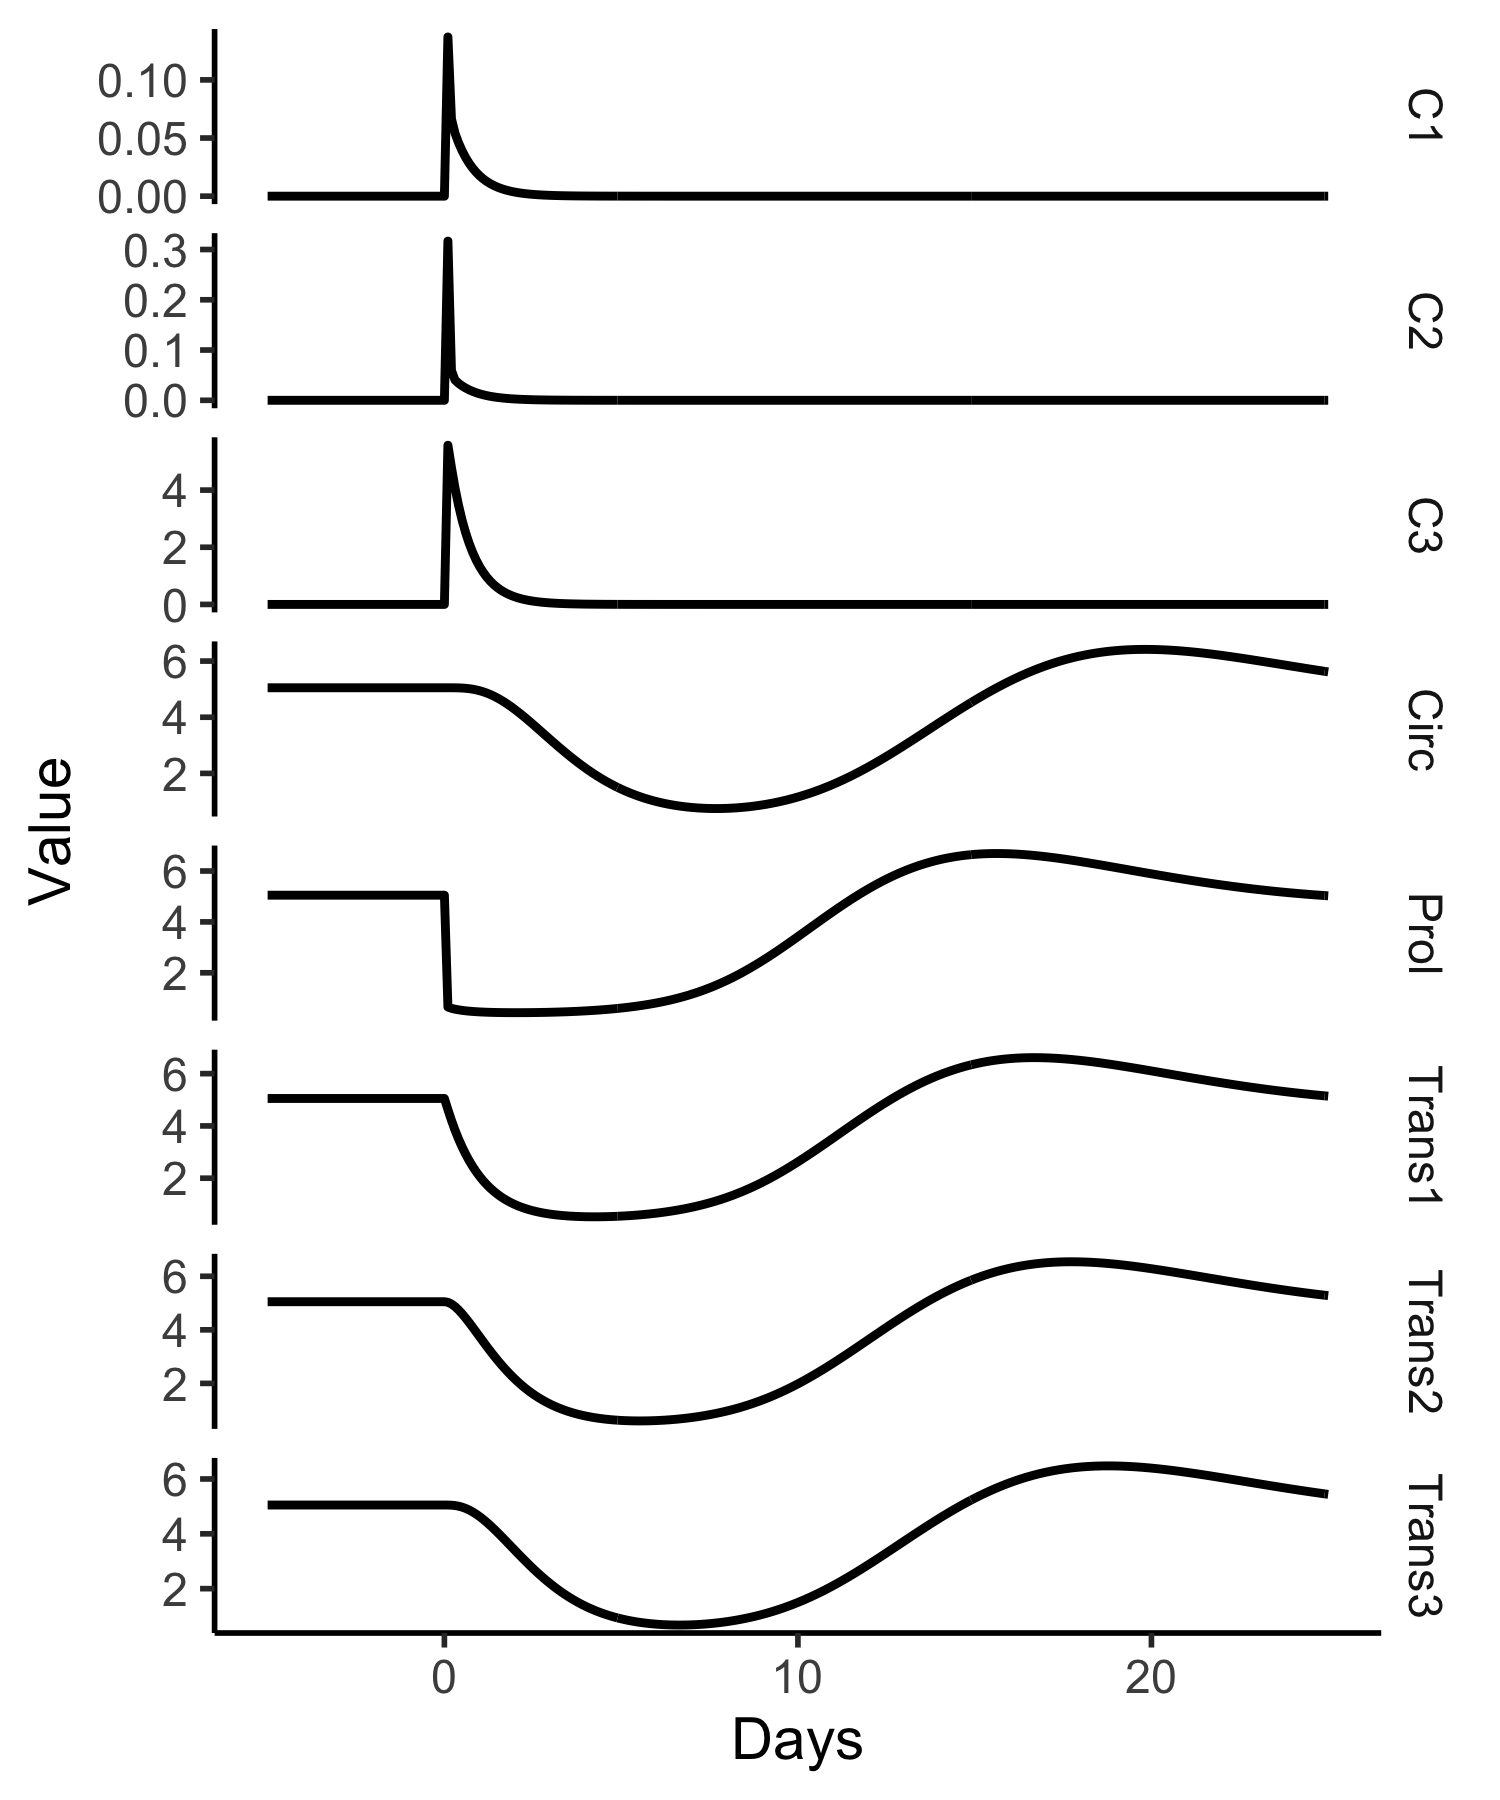
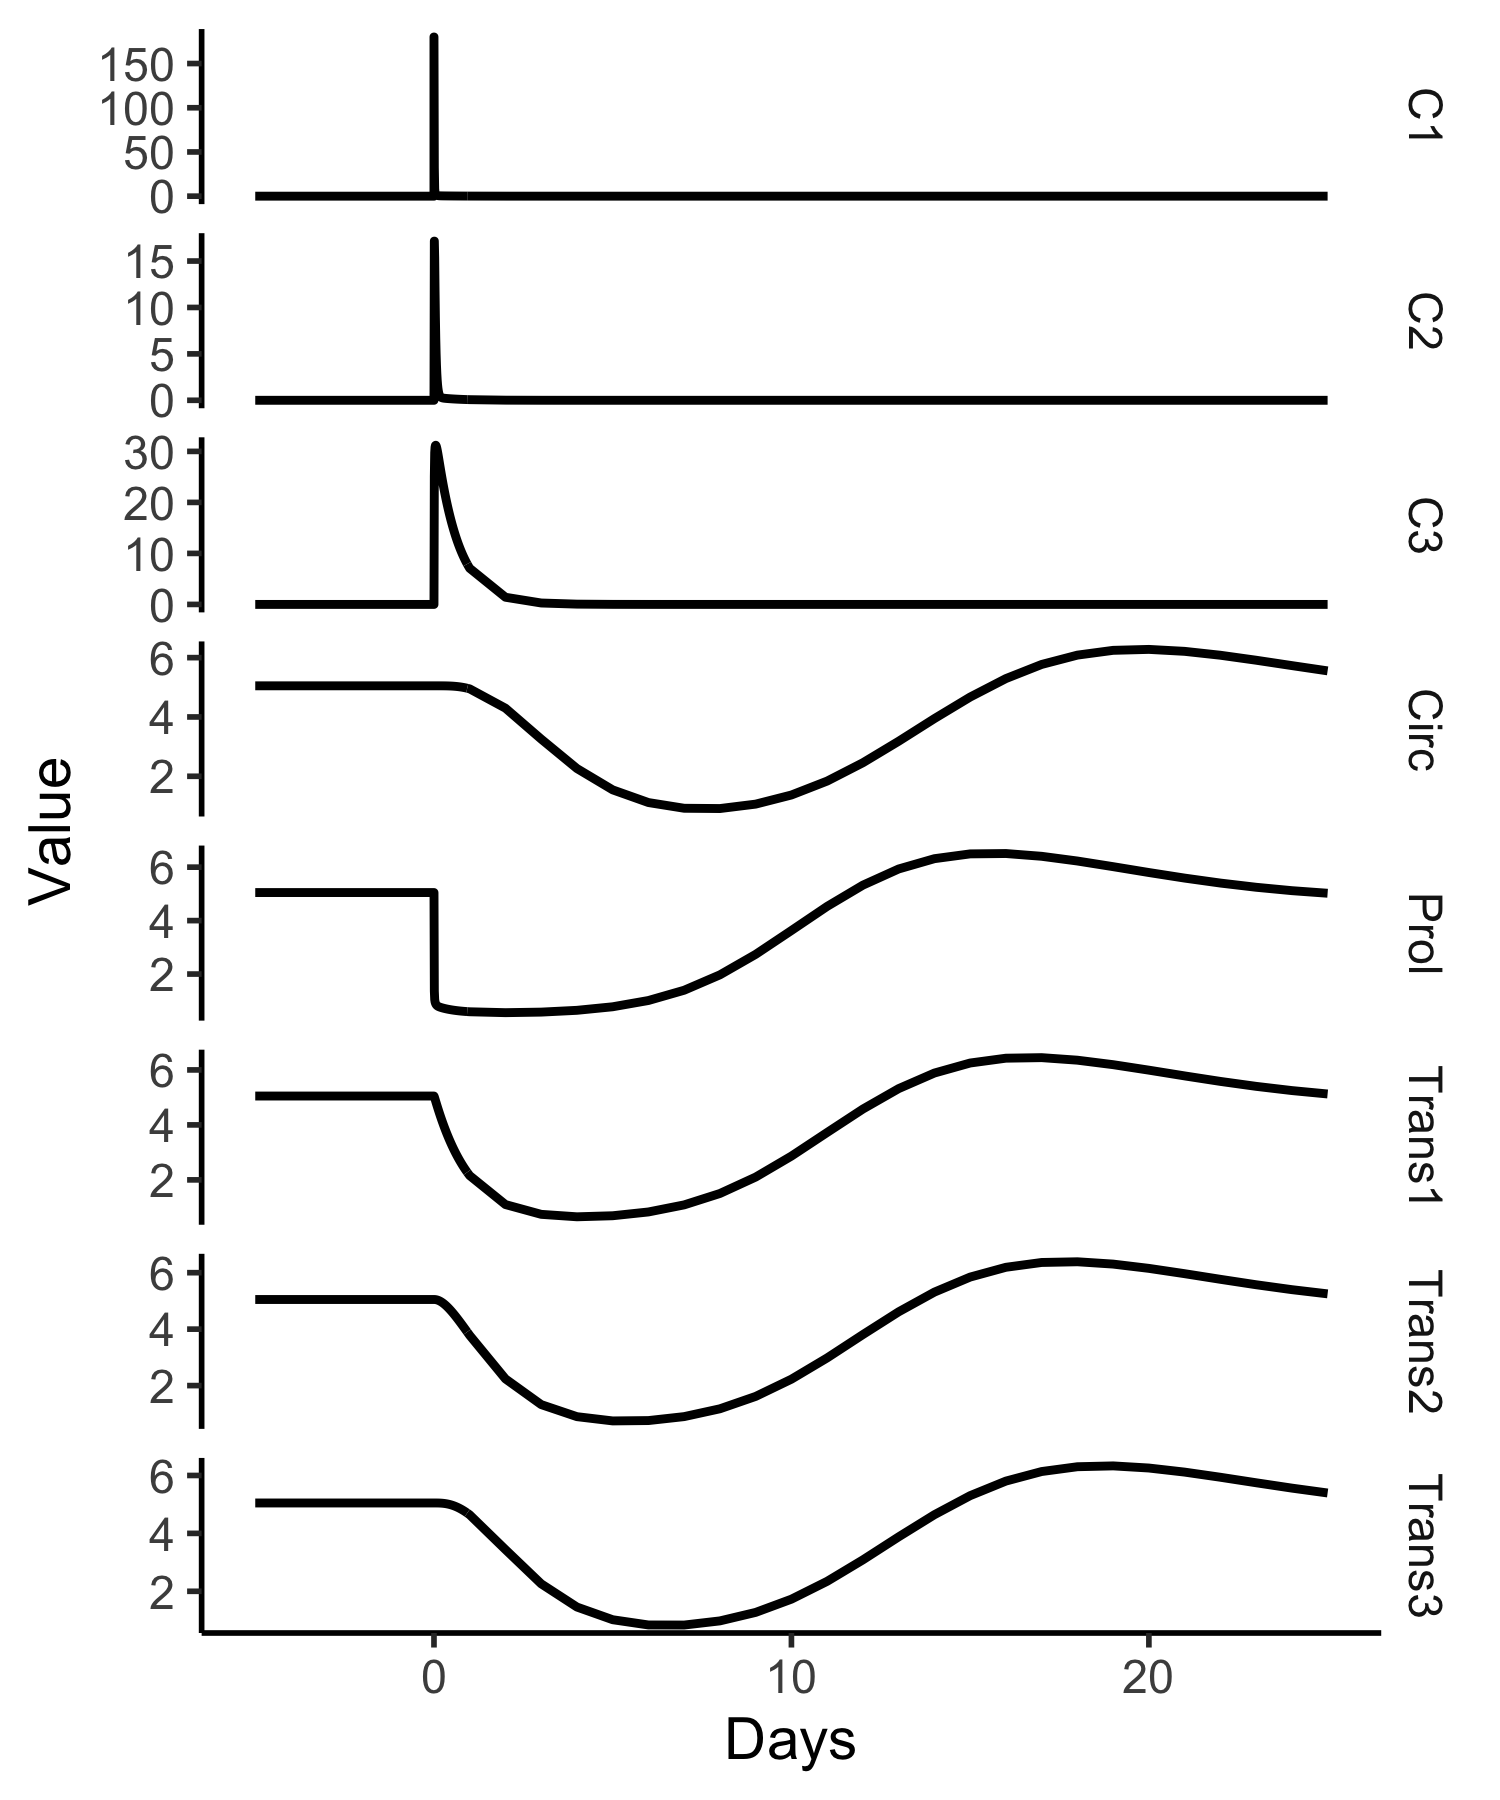
fri02 readme

diff --git a/myelo/src/fri02.c b/myelo/src/fri02.c
@@ -2,7 +2,7 @@
 #include <Rinternals.h>
 #include <Rdefines.h>
 #include <R_ext/Rdynload.h>
-static double  parms[9];
+static double  parms[11];
 #define Circ0  parms[0]
 #define ktr    parms[1]
 #define gam    parms[2]
@@ -12,17 +12,19 @@ static double  parms[9];
 #define k13    parms[6]
 #define k31    parms[7]
 #define k10    parms[8]
+#define V1     parms[9]
+#define mw     parms[10]
 
 
 void parmsFri02(void (* odeparms)(int *, double *))
-{   int N=9;
+{   int N=11;
     odeparms(&N, parms);
 }
 
 
 void derivsFri02(int *neq, double *t, double *y, double *ydot)
 {
-    double C1, C2,C3,Prol,Trans1,Trans2,Trans3,Circ, Edrug;
+    double C1, C2,C3,Prol,Trans1,Trans2,Trans3,Circ, Edrug, Cp;
     double dC1, dC2,dC3,dProl,dTrans1,dTrans2,dTrans3,dCirc;
     C1=y[0];  C2=y[1];   C3=y[2];  Prol=y[3];   
     Trans1=y[4];  Trans2=y[5];   Trans3=y[6];  Circ=y[7];   
@@ -30,7 +32,8 @@ void derivsFri02(int *neq, double *t, double *y, double *ydot)
     dC1=-(k12+k13+k10)*C1 + k21*C2 + k31*C3;
     dC2=k12*C1 - k21*C2;
     dC3=k13*C1 - k31*C3;
-    Edrug=slope*C1;
+    Cp=C1/V1/mw;
+    Edrug=slope*Cp;
     dProl = ktr*Prol*(1-Edrug)*pow(Circ0/Circ,gam) - ktr*Prol;
     dTrans1=ktr*Prol-ktr*Trans1;
     dTrans2=ktr*Trans1-ktr*Trans2;
@@ -45,6 +48,4 @@ void derivsFri02(int *neq, double *t, double *y, double *ydot)
     ydot[5] = dTrans2;
     ydot[6] = dTrans3;
     ydot[7] = dCirc;
-    
 }
-

diff --git a/myelo/README.md b/myelo/README.md
@@ -26,7 +26,8 @@ friberg02<-function(Time, State, Pars) {
     dC1=-(k12+k13+k10)*C1 + k21*C2 + k31*C3
     dC2=k12*C1 - k21*C2
     dC3=k13*C1 - k31*C3
-    Edrug=slope*C1
+    Cp=C1/V1/mw  #mw in mg/umole => uM
+    Edrug=slope*Cp
     dProl = ktr*Prol*(1-Edrug)*(Circ0/Circ)^gam - ktr*Prol
     dTrans1=ktr*Prol-ktr*Trans1
     dTrans2=ktr*Trans1-ktr*Trans2
@@ -37,30 +38,20 @@ friberg02<-function(Time, State, Pars) {
 }
 
 ```
-Using fits of this model to docetaxel response data, the parameter estimates in days are
+Using fits of this model to docetaxel response data, the parameter estimates, with time in days, are
 ```
 fribergPars02=c(Circ0=5.05, ktr=24*4/88.7,gam=0.161,slope=8.58, 
-k12 = 24*1.06,k21 = 24*1.51,k13 = 24*1.26, k31 = 24*0.084,k10 = 24*5.2)
+k12 = 24*1.06,k21 = 24*1.51,k13 = 24*1.26, k31 = 24*0.084,k10 = 24*5.2,V1=7.4,mw=0.808)
 ```
-and initial state  is
-```
-x0=c(C1=0,C2=0,C3=0,Prol=5.05,Trans1=5.05,Trans2=5.05,Trans3=5.05,Circ=5.05)
-```
-
-The initial number of circulating neutrophils (Circ) is  5.05e3 cells/uL. As this is 
-also the setpoint, Circ0, it is also the steady state of Circ, and from the equations, 
-also the steady state of each  compartment. We start in this steady state at t=-5 days  and
-at time t=0 add a bolus  of  
-docetaxel (100 mg/m2 *2 m2 = 200 mg) to the central compartment C1.  This equates to setting 
-C1 to 33.5 uM at t=0; the number of umoles is 247.524 = 200/0.808 
-(since 808 gm/mole=0.808 mg/umole), so V1=7.4L => 247.524/7.4 = 33.5 uM. 
-The code for this is
+Starting from a steady state at t=-5 days, the code below simulates adding
+ a bolus  of  docetaxel (100 mg/m2 *1.8 m2 = 180 mg) at t=0. 
 ```
 library(tidyverse)
 library(deSolve)
 library(myelo)
-times <- seq(-5,25,0.1)
-(evnt=data.frame(var="C1",time=0,value=33.5,method="rep"))
+times <- c(-5:0,seq(0,1,0.01),1:25)
+x0=c(C1=0,C2=0,C3=0,Prol=5.05,Trans1=5.05,Trans2=5.05,Trans3=5.05,Circ=5.05)
+(evnt=data.frame(var="C1",time=0,value=180,method="rep"))
 yout=ode(x0,times=times,func=friberg02,events=list(data=evnt),parms=fribergPars02)
 D=as.data.frame(yout)
 gx=xlab("Days")
@@ -71,15 +62,16 @@ d%>%ggplot(aes(x=time,y=Value))+facet_grid(Lab~.,scales = "free")+geom_line(size
 ggsave("~/Results/myelo/fri02.png",width=5, height=6)
 ```
 ![](../docs/fri02.png)
+Note that the initial number of circulating neutrophils (Circ),  5.05e3 cells/uL, is 
+also the setpoint, Circ0, and from the equations, also the steady state of each  compartment. 
 
-The same model, in faster deSolve C code, is
-
+The same model in faster  deSolve C code, is
 ```
 #include <R.h>
 #include <Rinternals.h>
 #include <Rdefines.h>
 #include <R_ext/Rdynload.h>
-static double  parms[9];
+static double  parms[11];
 #define Circ0  parms[0]
 #define ktr    parms[1]
 #define gam    parms[2]
@@ -89,10 +81,12 @@ static double  parms[9];
 #define k13    parms[6]
 #define k31    parms[7]
 #define k10    parms[8]
+#define V1     parms[9]
+#define mw     parms[10]
 
 
 void parmsFri02(void (* odeparms)(int *, double *))
-{   int N=9;
+{   int N=11;
     odeparms(&N, parms);
 }
 
@@ -143,10 +137,12 @@ Using Metrum Research Group's mrgsolve, such C code is automatically generated a
 ```
 library(mrgsolve)
 code='
-$PARAM Circ0=5.05,ktr=1.0823,gam=0.161,slope=8.58,k12=25.44,k21=36.24,k13=30.24,k31=2.016,k10=124.8
+$PARAM Circ0=5.05,ktr=1.0823,gam=0.161,slope=8.58
+k12=25.44,k21=36.24,k13=30.24,k31=2.016,k10=124.8,V1=7.4,mw=0.808
 $INIT C1=0,C2=0,C3=0,Prol=5.05,Trans1=5.05,Trans2=5.05,Trans3=5.05,Circ=5.05 
 $ODE 
-double Edrug=slope*C1;
+double Cp=C1/V1/mw;
+double Edrug=slope*Cp;
 dxdt_C1=-(k12+k13+k10)*C1 + k21*C2 + k31*C3;
 dxdt_C2=k12*C1 - k21*C2;
 dxdt_C3=k13*C1 - k31*C3;
@@ -157,8 +153,8 @@ dxdt_Trans3=ktr*Trans2-ktr*Trans3;
 dxdt_Circ=ktr*Trans3-ktr*Circ;
 '
 mod <- mread("fri02", "~/tmp", code)
-(e=ev(time=5,amt=33.5,cmt=1)) #adds (evid=1) 33.5 to cmt 1 at t=5 days
-mod%>%ev(e)%>%mrgsim(end = 30, delta = 0.1)%>%plot(xlab="Days")
+(e=ev(time=5,amt=180,cmt=1)) 
+mod%>%ev(e)%>%mrgsim(end = 30, delta = 0.01)%>%plot(xlab="Days")
 ```
 which generates
 
@@ -169,19 +165,28 @@ mrssolve also offer nice Rx short hand as follows:
 ```
 (e=ev_rx("50 q 21 x 6 then 25 q 14 x 6"))
 mod%>%ev(e)%>%mrgsim(end = 300, delta = 0.1)%>%plot(xlab="Days")
-(e=ev_rx("50 over 2h q 21 x 6 then 25 q 14 x 6"))
-mod%>%ev(e)%>%mrgsim(end = 300, delta = 0.1)%>%plot(xlab="Days")
-(e=ev_rx("50 over 12h q 21 x 6 then 25 q 14 x 6"))
-mod%>%ev(e)%>%mrgsim(end = 300, delta = 0.1)%>%plot(xlab="Days")
 ```
-which shows that a 2 hour infusion is the same as a bolus with respect to PD but not PK, 
-and that a 12 hour infusion also changes the PD. 
 
 ![](../docs/fribolus.png)
 
+
+<!--
+```
+(e=ev_rx("50 over 2h q 21 x 6 then 25 q 14 x 6"))
+mod%>%ev(e)%>%mrgsim(end = 300, delta = 0.1)%>%plot(xlab="Days")
+```
 ![](../docs/friinfus.png)
 
+```
+(e=ev_rx("50 over 12h q 21 x 6 then 25 q 14 x 6"))
+mod%>%ev(e)%>%mrgsim(end = 300, delta = 0.1)%>%plot(xlab="Days")
+```
 ![](../docs/infus12h.png)
+
+which shows that a 2 hour infusion is the same as a bolus with respect to PD but not PK, 
+and that a 12 hour infusion also changes the PD. 
+
+
 
 
 The following block simulates the model for 6 21 day cycles and adds a small amount of noise
@@ -208,3 +213,5 @@ D$V=D$V+rnorm(dim(D)[1],sd=sd)
 D%>%ggplot(aes(x=time,y=V))+facet_wrap(Trt~.,scales = "free")+geom_line(size=1)+tc(11)+sbb
 ggsave("~/tmp/simulated.png",width=5,height=4)
 ```
+
+-->
